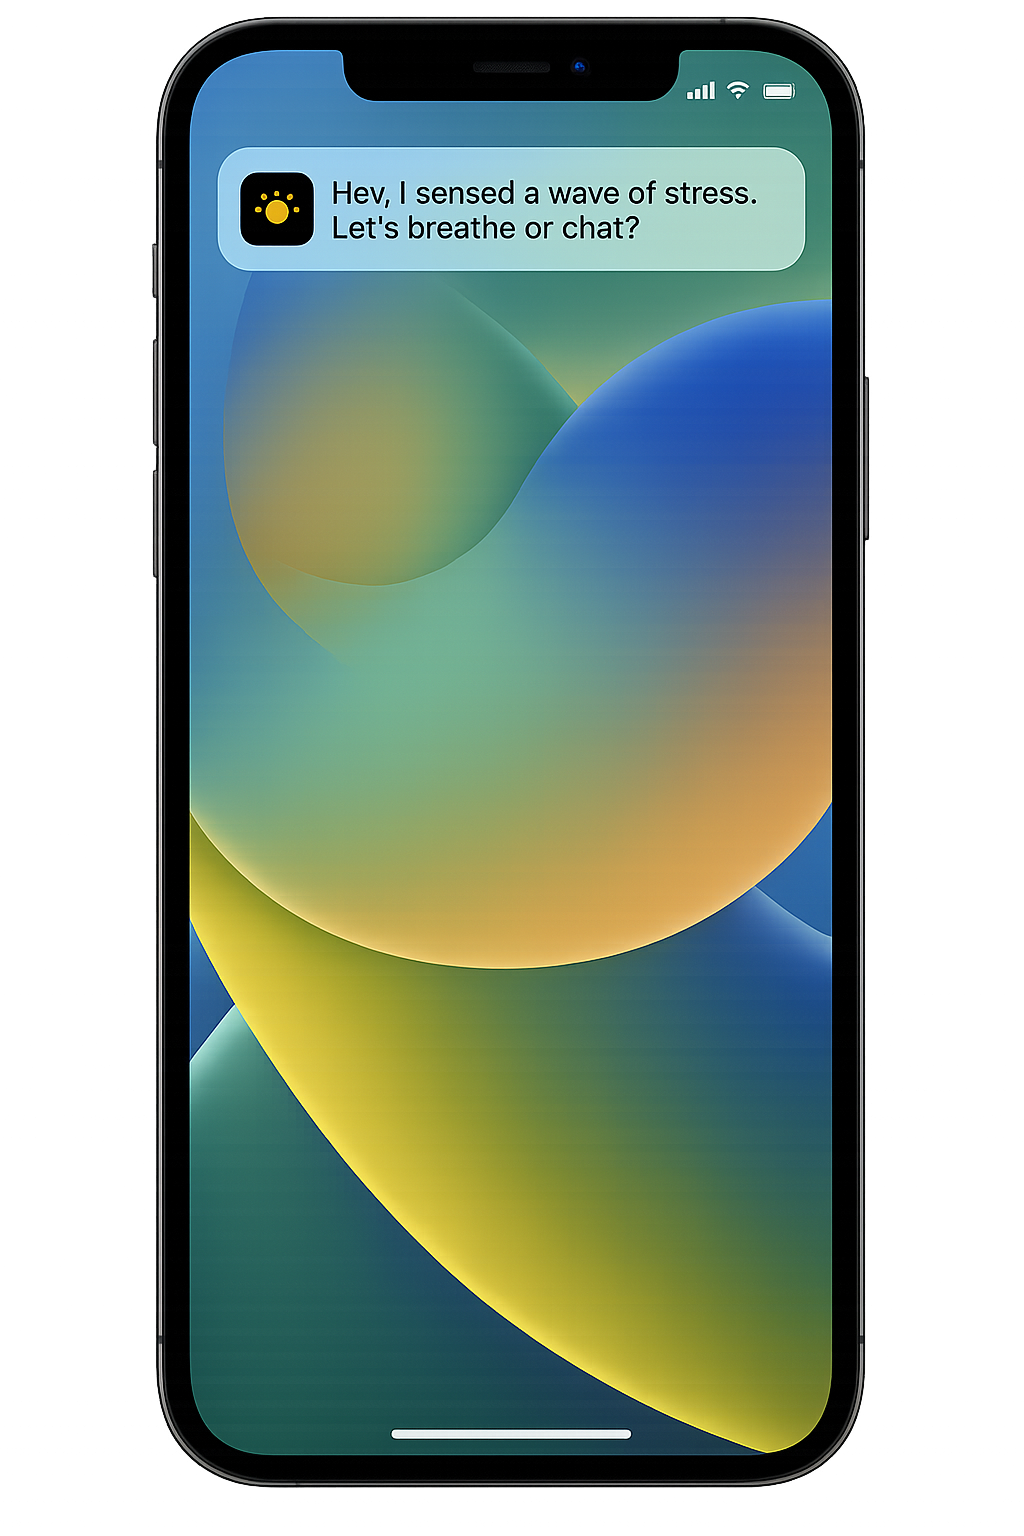
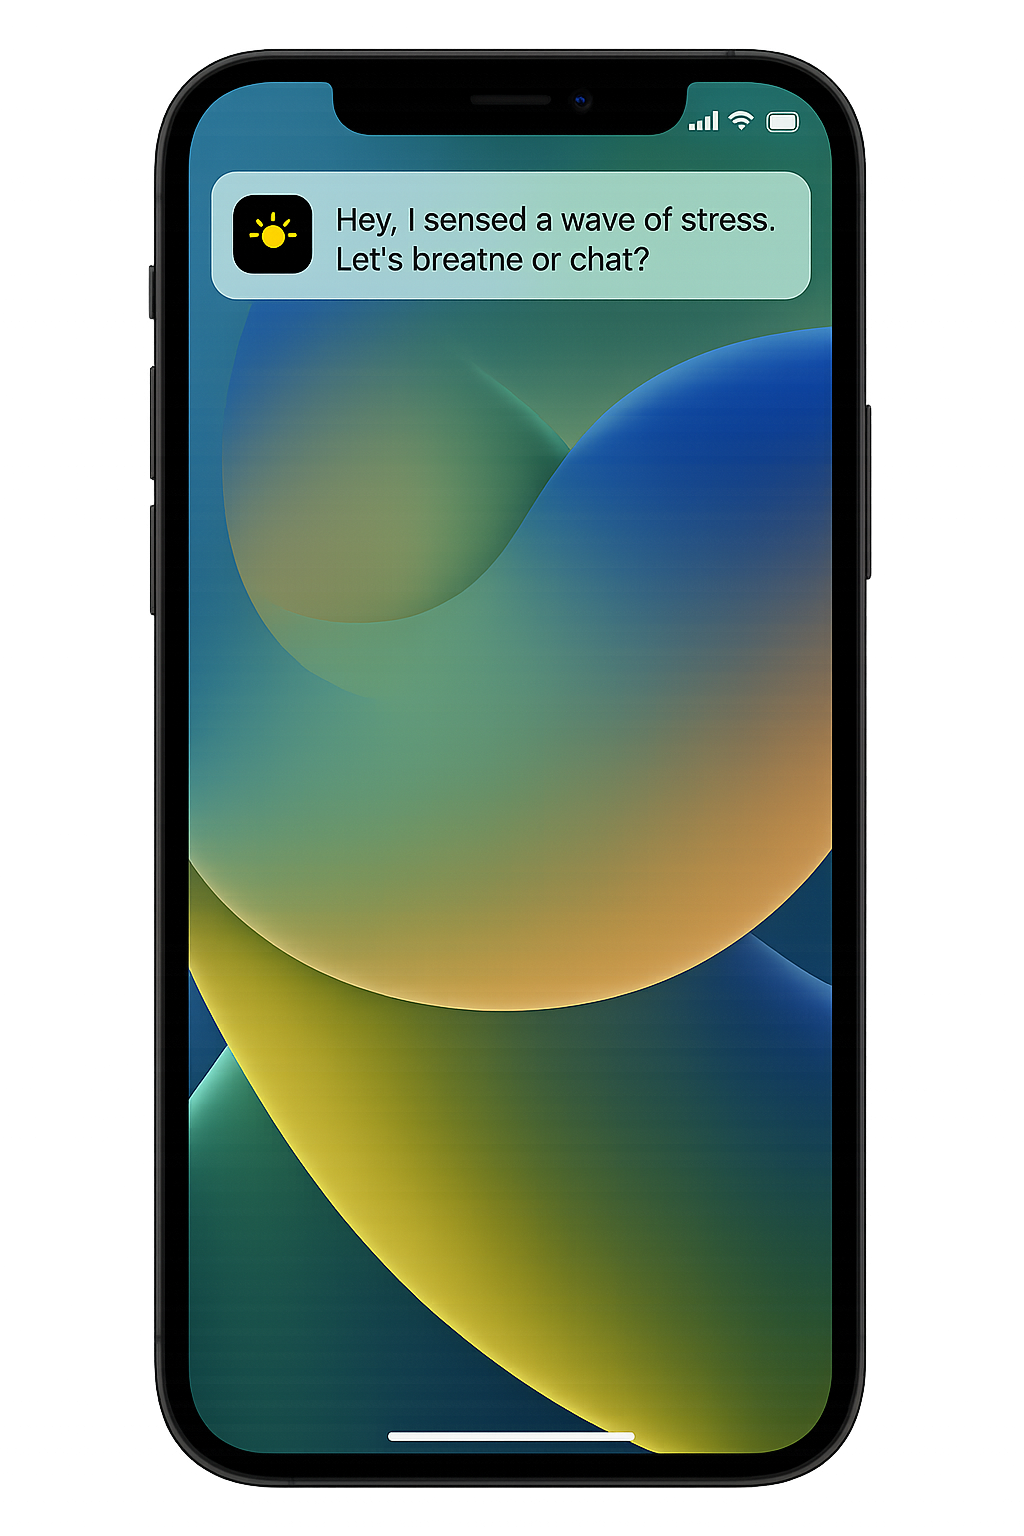
updated image and text distance to image on mobile

diff --git a/app/page.tsx b/app/page.tsx
@@ -150,7 +150,7 @@ export default function Home() {
                     priority
                   />
                   {/* Mobile‑only overlay for rotating words */}
-                  <div className="absolute inset-x-0 -top-16 flex justify-center md:hidden z-10">
+                  <div className="absolute inset-0 flex items-center justify-center md:hidden z-10">
                     <div className="w-36">
                       <RotatingCube />
                     </div>
